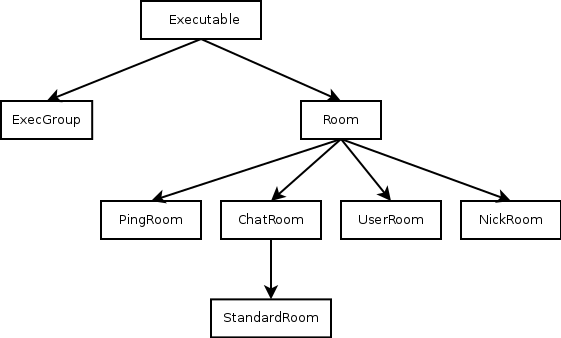
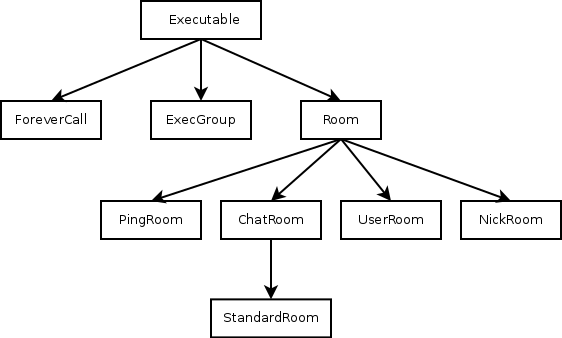
Cleanup and documentation.

diff --git a/euphoria/room.py b/euphoria/room.py
@@ -32,7 +32,8 @@ class Room(executable.Executable):
             self.connection.connect(self.roomname)
 
             if self.password is not None:
-                self.connection.send_packet("auth", cn.build_json(type="passcode", passcode=self.password))
+                self.connection.send_packet("auth",
+                        cn.build_json(type="passcode", passcode=self.password))
 
     def identify(self):
         """
@@ -43,7 +44,8 @@ class Room(executable.Executable):
 
         if self.connection is not None:
             if self.nickname is not None:
-                self.connection.send_packet("nick", cn.build_json(name=self.nickname))
+                self.connection.send_packet("nick",
+                                            cn.build_json(name=self.nickname))
 
     def quit(self):
         """
@@ -111,5 +113,6 @@ class Room(executable.Executable):
                     self.join()
                     self.identify()
                     self.ready()
-            except OSError:  #Catching some exception that occurs in single threading bots
+            #Catching some exception that occurs in single threading bots
+            except OSError:
                 break

diff --git a/euphoria/executable.py b/euphoria/executable.py
@@ -21,17 +21,41 @@ class Executable():
         self.thread = None
 
     def uptime(self):
+        """
+        uptime() -> Int
+
+        Get the running time in seconds.
+        """
+
         return time.time() - self.start_time
 
     def run(self):
+        """
+        run() -> None
+
+        Run whatever process is meant to be run. This method should be overriden.
+        """
+
         self.start_time = time.time()
         self.running = True
 
     def launch(self):
+        """
+        launch() -> None
+
+        Run the process in another thread.
+        """
+
         self.thread = threading.Thread(target=self.run)
         self.thread.start()
 
     def quit(self):
+        """
+        quit() -> None
+
+        Clean up all the loose ends and terminate the running process.
+        """
+
         self.running = False
 
         if self.thread is not None and self.thread is not threading.current_thread():

diff --git a/euphoria/utils.py b/euphoria/utils.py
@@ -1,38 +1,6 @@
 from . import executable
 
-import time
 import unicodedata
-
-#This file contains a collection of useful stuff
-
-class ForeverCall(executable.Executable):
-    """
-    Call a function forever with a delay.
-    """
-
-    def __init__(self, callback, delay, wait=3):
-        super().__init__()
-
-        self.callback = callback
-        self.delay = delay
-        self.wait = wait
-
-        self.last_call = None
-
-    def reset(self):
-        self.last_call = time.time()
-
-    def run(self):
-        super().run()
-
-        self.last_call = time.time()
-        while self.running:
-            if self.delay is not None:
-                if time.time() - self.last_call >= self.delay:
-                    self.callback()
-                    self.reset()
-
-            time.sleep(self.wait)
 
 def filter_nick(name):
     """

diff --git a/euphoria/forever.py b/euphoria/forever.py
@@ -1,0 +1,30 @@
+import time
+
+class ForeverCall(executable.Executable):
+    """
+    Call a function forever with a delay.
+    """
+
+    def __init__(self, callback, delay, wait=3):
+        super().__init__()
+
+        self.callback = callback
+        self.delay = delay
+        self.wait = wait
+
+        self.last_call = None
+
+    def reset(self):
+        self.last_call = time.time()
+
+    def run(self):
+        super().run()
+
+        self.last_call = time.time()
+        while self.running:
+            if self.delay is not None:
+                if time.time() - self.last_call >= self.delay:
+                    self.callback()
+                    self.reset()
+
+            time.sleep(self.wait)

diff --git a/euphoria/command.py b/euphoria/command.py
@@ -1,4 +1,9 @@
 class Command:
+    """
+    The Command class allows you to parse and read bot commands. This includes
+    the main command, the arguments and the flags.
+    """
+
     def __init__(self, text):
         self.text = text
 
@@ -7,6 +12,12 @@ class Command:
         self.args = []
 
     def parse(self):
+        """
+        parse() -> None
+
+        Perform the parsing.
+        """
+
         parts = self.text.split()
 
         if len(parts) == 0:

diff --git a/euphoria/connection.py b/euphoria/connection.py
@@ -31,8 +31,8 @@ class Connection:
         self.last_packet = time.time()
 
         #Different types of callbacks
-        self.type_callbacks = dict()
-        self.id_callbacks = dict()
+        self.type_callbacks = {}
+        self.id_callbacks = {}
 
         #Thread stuff
         self.lock = threading.RLock()

diff --git a/euphoria/execgroup.py b/euphoria/execgroup.py
@@ -54,12 +54,6 @@ class ExecGroup(executable.Executable):
             time.sleep(self.delay)
 
     def quit(self):
-        """
-        quit() -> None
-
-        Quit nicely.
-        """
-
         for i in self.execs:
             i.quit()
 

diff --git a/euphoria/__init__.py b/euphoria/__init__.py
@@ -7,5 +7,6 @@ from . import chat_room
 from . import user_room
 from . import nick_room
 from . import standard_room
+from . import forever
 from . import utils
 from . import command
